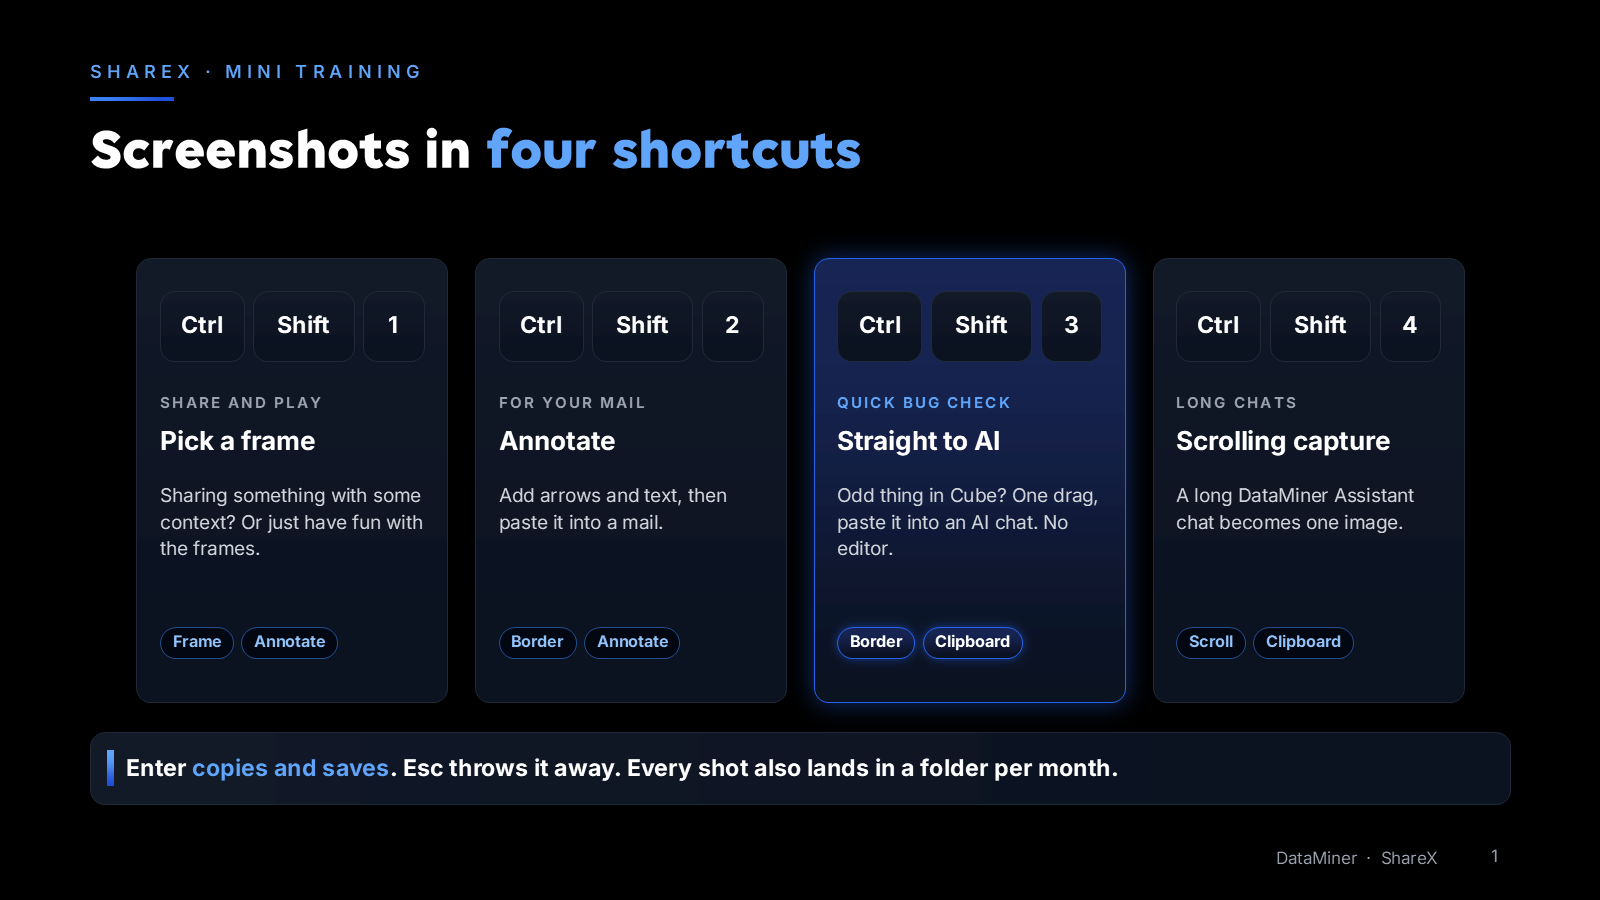
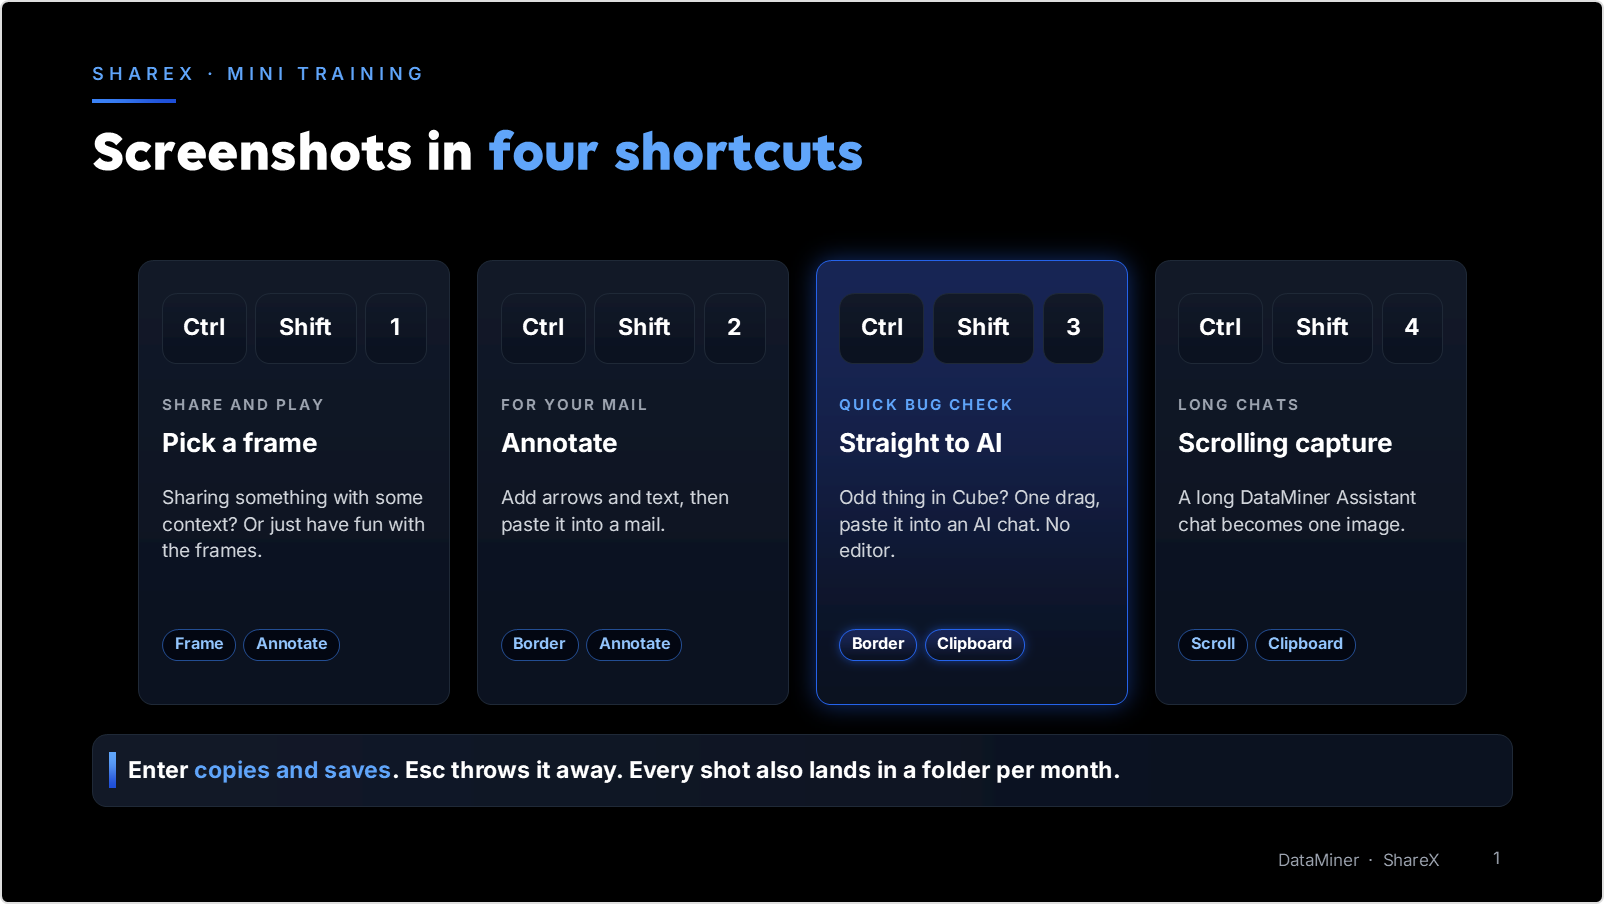
Add rounded grey borders to slide images and link to ShareX

diff --git a/README.md b/README.md
@@ -1,6 +1,6 @@
 # ShareX screenshot setup
 
-This is the material for a 5-minute demo about taking screenshots. The nice part: if you like how it works, you can copy every setting in one go with a single prompt. No account needed.
+This is the material for a 5-minute demo about taking screenshots with [ShareX](https://getsharex.com). The nice part: if you like how it works, you can copy every setting in one go with a single prompt. No account needed.
 
 ![Slide 1: four shortcuts](images/slide-1-shortcuts.png)
 
@@ -34,7 +34,7 @@ A few things apply to all of them:
 - Every screenshot lands on the clipboard and in `Documents\ShareX\Screenshots\<year-month>`.
 - There are 35 frames in Ctrl+Shift+1, ordered from neutral to a bit silly. The default is Rounded grey border. Further down you get a thin dark border, glows, a Polaroid, a torn paper edge, RGB glitch, what (meme) and even Upside down.
 
-![All 35 frames](images/frames-overview.png)
+![All 35 frames](images/frames-35-overview.png)
 
 ## In the editor
 
@@ -44,7 +44,7 @@ One more trick: switch on Windows clipboard history with Windows+V. Take a few s
 
 ## Why ShareX
 
-It's free, open source and still updated. The grey border looks tidy in a mail, and region capture keeps the edges of your browser window visible. Snagit costs money and the Snipping Tool is fairly basic.
+[ShareX](https://getsharex.com) is free, open source and still updated. The grey border looks tidy in a mail, and region capture keeps the edges of your browser window visible. Snagit costs money and the Snipping Tool is fairly basic.
 
 There's more in there that the demo skips: OCR (tray icon, under Capture), Blur and Pixelate in the editor, Shift+PrintScreen for a screen recording and Ctrl+Shift+PrintScreen for a GIF.
 
